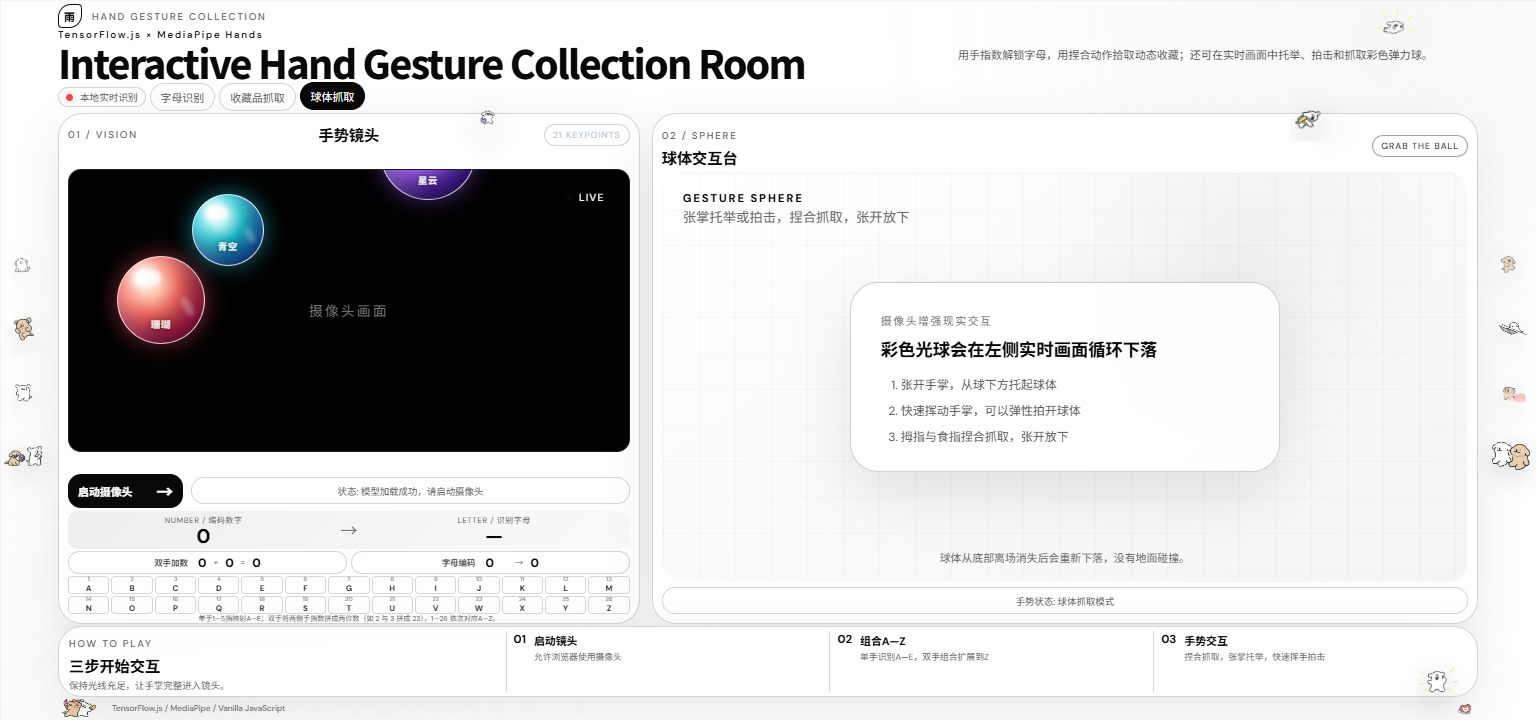
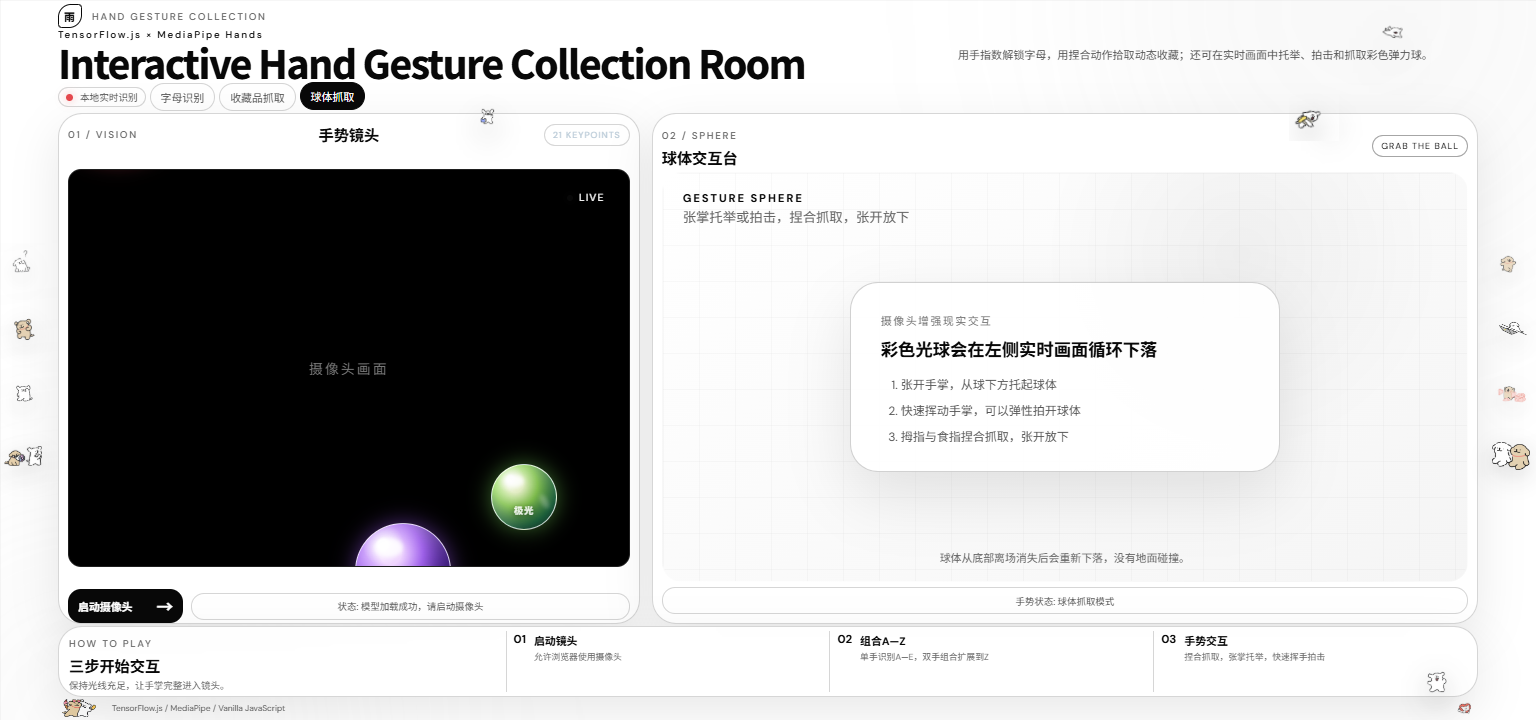
feat: isolate interaction modes and slow ball fall

diff --git a/src/js/interaction.js b/src/js/interaction.js
@@ -156,7 +156,7 @@ function initialiseBallState(ball, index, area, force = false) {
         x: Math.max(0, Math.min(area.clientWidth - size, spawn * area.clientWidth - size / 2)),
         y: -size - index * 68,
         vx: (index % 2 ? -1 : 1) * (24 + index * 7),
-        vy: 18 + index * 8,
+        vy: 10 + index * 5,
         lastHit: 0
     };
     ballStates.set(ball, state);
@@ -172,7 +172,7 @@ function respawnBall(ball, state, index, area) {
     state.x = Math.max(0, Math.min(area.clientWidth - size, lane * area.clientWidth - size / 2 + randomOffset));
     state.y = -size - 24 - index * 18;
     state.vx = (Math.random() - .5) * 86;
-    state.vy = 18 + Math.random() * 22;
+    state.vy = 10 + Math.random() * 9;
     state.lastHit = 0;
     ball.classList.remove('ball-respawn');
     void ball.offsetWidth;
@@ -237,7 +237,7 @@ function animateVideoBalls(frameTime) {
             }
 
             // 较缓的重力和终端速度，为摄像头手势托举、拍击与抓取留出反应时间。
-            state.vy = Math.min(state.vy + 155 * elapsed, 180);
+            state.vy = Math.min(state.vy + 95 * elapsed, 110);
 
             if (handIsLive && liveHandState.gesture === '张开手势') {
                 const ballX = state.x + size / 2;

diff --git a/src/js/detector.js b/src/js/detector.js
@@ -84,7 +84,16 @@ function detectHands(video, canvas, detector) {
 
         // 分析手势
         analyzeGesture(hands[0]);
-        analyzeLetters(hands);
+        if (document.body.dataset.mode === 'letters') {
+          analyzeLetters(hands);
+        } else {
+          // 收藏品和球体模式只保留手势交互，不执行字母编码与英文播报。
+          currentFingerCount = 0;
+          currentLetter = '—';
+          leftCountHistory = [];
+          rightCountHistory = [];
+          lastSpokenLetter = '';
+        }
 
         // 更新交互
         updateInteraction(hands[0], canvas, currentGesture, handPosition);

diff --git a/src/index.css b/src/index.css
@@ -325,6 +325,12 @@ canvas { z-index: 2; }
 .alphabet-key.active small { color: #5b4200; }
 .encoding-tip { margin-top: 3px; color: #6e879a; font-size: .6rem; text-align: center; }
 
+/* 三个模式相互独立：只有字母模式显示并运行字母结果区。 */
+body:not([data-mode='letters']) .recognition-panel,
+body:not([data-mode='letters']) .two-hand-math,
+body:not([data-mode='letters']) .alphabet-map,
+body:not([data-mode='letters']) .encoding-tip { display: none; }
+
 .interaction-area {
   position: relative;
   flex: 1 1 auto;

diff --git a/src/main.js b/src/main.js
@@ -42,6 +42,7 @@ function setMode(mode) {
   const selectedMode = MODE_CONFIG[mode] ? mode : 'letters';
   document.body.dataset.mode = selectedMode;
   resetInteraction();
+  if (selectedMode !== 'letters') window.speechSynthesis?.cancel();
 
   document.querySelectorAll('.mode-button').forEach((button) => {
     const active = button.dataset.mode === selectedMode;

diff --git a/docs/使用手册.md b/docs/使用手册.md
@@ -40,6 +40,8 @@ http://localhost:5173/
 - “收藏品抓取”：在右侧收藏台抓取和布置动态物品。
 - “球体抓取”：在左侧实时摄像头画面中托举、拍击或抓取彩色弹力球。
 
+三个模式相互独立。收藏品抓取和球体抓取模式会隐藏并暂停字母识别、字母编码和英文播报。
+
 ## 4. 识别字母
 
 - 握拳时识别为0；识别程序会检查拇指是否收在掌内，避免拳头被误判为1。

diff --git a/readme.md b/readme.md
@@ -10,6 +10,7 @@
 ## 项目功能
 
 页面顶部提供“字母识别、收藏品抓取、球体抓取”三个模式按钮，三项功能互相独立，可随时切换。
+字母编码面板只在“字母识别”模式显示和运行；进入收藏品或球体模式后会暂停字母计算与英文播报，为摄像头交互留出更大的显示区域。
 
 ### A—Z 字母识别
 
